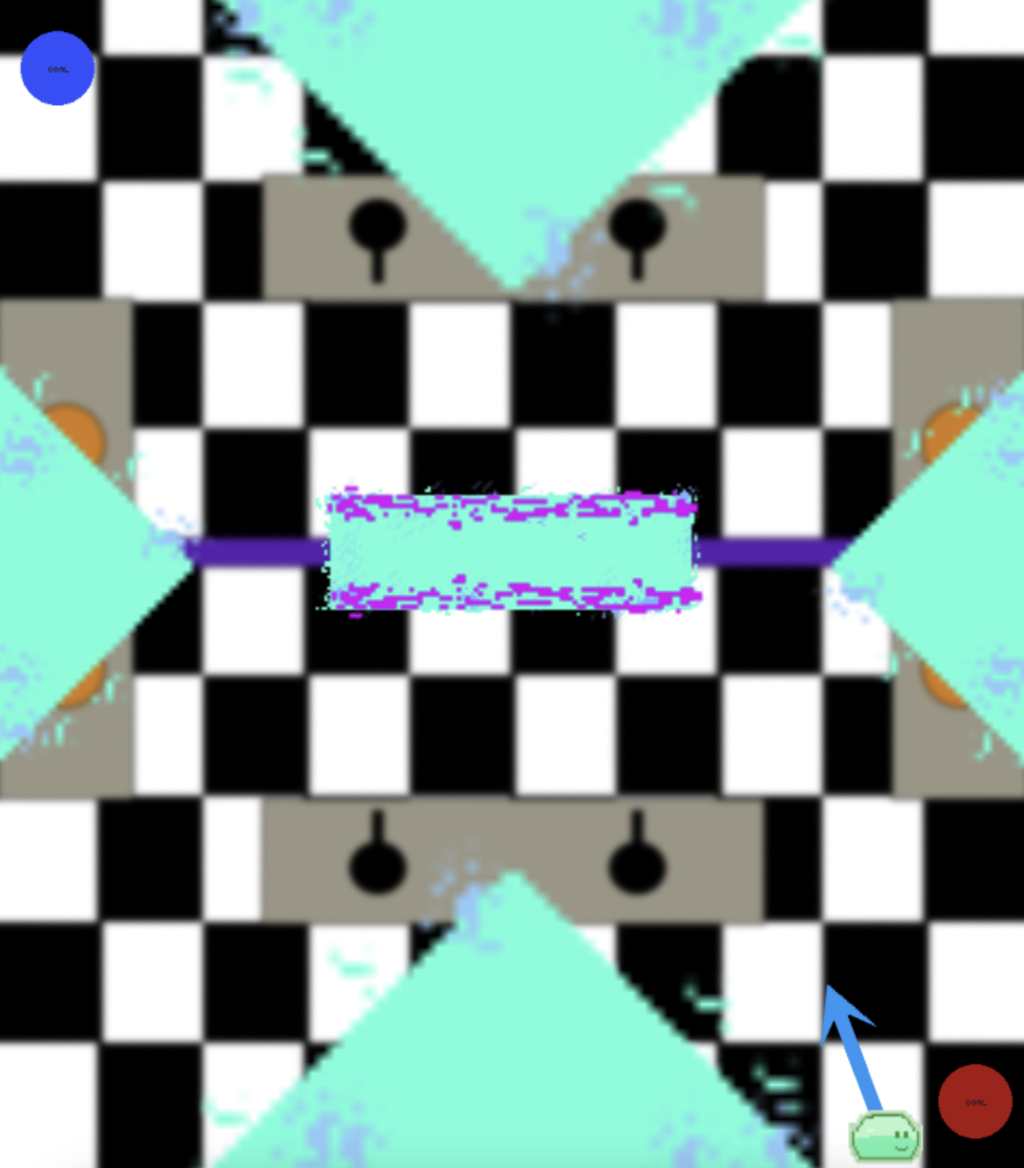
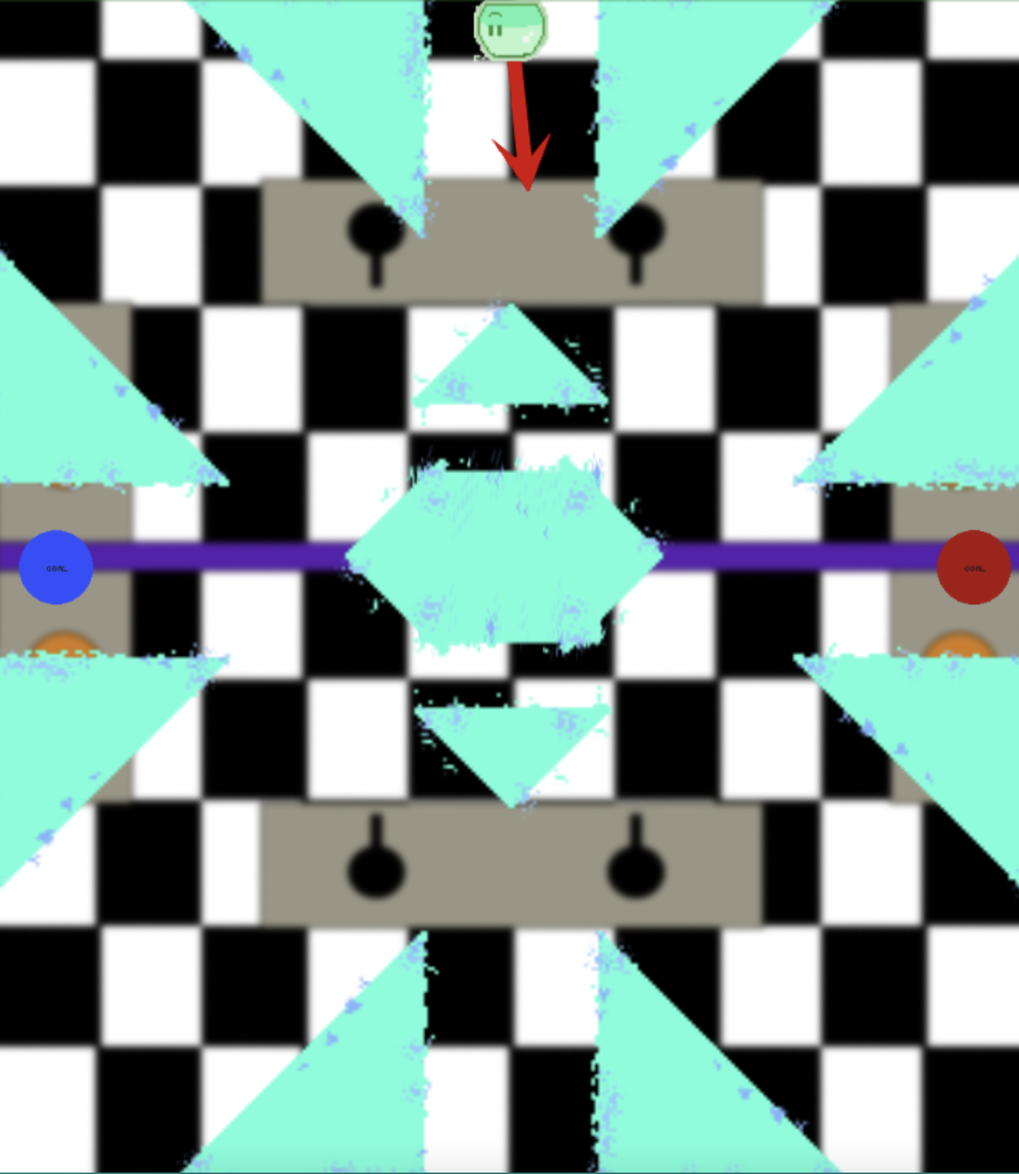
spawn point fixes and level 5 rework

diff --git a/src/scenes/Levels/Level5.js b/src/scenes/Levels/Level5.js
@@ -38,33 +38,37 @@ class Level5 extends Phaser.Scene {
         //movement and scene creation
         this.add.tileSprite(0, 0, 720, 860, 'kitchen').setOrigin(0, 0);
 
-        this.obstacle1 = this.matter.add.sprite(360, 100, 'eqtriangle', null, { isStatic: true, shape: this.shapes.equaltriangle }).setScale(8).setAngle(180);
-        this.obstacle2 = this.matter.add.sprite(360, 800, 'eqtriangle', null, { isStatic: true, shape: this.shapes.equaltriangle }).setScale(8)
-        this.obstacle3 = this.matter.add.sprite(45, 440, 'eqtriangle', null, { isStatic: true, shape: this.shapes.equaltriangle }).setScale(5).setAngle(90);
-        this.obstacle4 = this.matter.add.sprite(675, 440, 'eqtriangle', null, { isStatic: true, shape: this.shapes.equaltriangle }).setScale(5).setAngle(270);
-        this.obstacle5 = this.matter.add.sprite(720/2, 860/2, 'obstacle', null, { isStatic: true, shape: this.shapes.obstacle }).setScale(2).setAngle(90);
+        this.obstacle1 = this.matter.add.sprite(240, 90, 'triangle', null, { isStatic: true, shape: this.shapes.triangle }).setScale(2.5).setAngle(180);
+        this.obstacle2 = this.matter.add.sprite(480, 810, 'triangle', null, { isStatic: true, shape: this.shapes.triangle }).setScale(2.5);
+        this.obstacle3 = this.matter.add.sprite(480, 90, 'triangle', null, { isStatic: true, shape: this.shapes.triangle }).setScale(2.5).setAngle(90);
+        this.obstacle4 = this.matter.add.sprite(240, 810, 'triangle', null, { isStatic: true, shape: this.shapes.triangle }).setScale(2.5).setAngle(270);
+        this.obstacle5 = this.matter.add.sprite(45, 560, 'triangle', null, { isStatic: true, shape: this.shapes.triangle }).setScale(2.5).setAngle(90);
+        this.obstacle6 = this.matter.add.sprite(675, 320, 'triangle', null, { isStatic: true, shape: this.shapes.triangle }).setScale(2.5).setAngle(270);
+        this.obstacle7 = this.matter.add.sprite(45, 320, 'triangle', null, { isStatic: true, shape: this.shapes.triangle }).setScale(2.5);
+        this.obstacle8 = this.matter.add.sprite(675, 560, 'triangle', null, { isStatic: true, shape: this.shapes.triangle }).setScale(2.5).setAngle(180);
+        this.obstacle9 = this.matter.add.sprite(720/2, 860/2, 'obstacle', null, { isStatic: true, shape: this.shapes.obstacle }).setScale(3,1).setAngle(90);
 
-        this.sticky1 = this.matter.add.sprite(360, 395, 'sticky', null, { isStatic: true, shape: this.shapes.horizontal_slime }).setScale(3);
-        this.sticky2 = this.matter.add.sprite(360, 470, 'sticky', null, { isStatic: true, shape: this.shapes.horizontal_slime }).setScale(3).setOrigin(0.5, 0.52);
-        this.sticky1.flipY = true;
-
+        this.obstacle10 = this.matter.add.sprite(290, 430, 'eqtriangle', null, { isStatic: true, shape: this.shapes.equaltriangle }).setScale(2.5).setAngle(270);
+        this.obstacle11 = this.matter.add.sprite(420, 430, 'eqtriangle', null, { isStatic: true, shape: this.shapes.equaltriangle }).setScale(2.5).setAngle(90);
+        this.obstacle12 = this.matter.add.sprite(360, 300, 'eqtriangle', null, { isStatic: true, shape: this.shapes.equaltriangle }).setScale(2.5);
+        this.obstacle13 = this.matter.add.sprite(360, 560, 'eqtriangle', null, { isStatic: true, shape: this.shapes.equaltriangle }).setScale(2.5).setAngle(180);
         
         this.playerturn = 0;
         this.player1score = 0;
         this.player2score = 0;
         // flip a coin to determine starting position
         if (Phaser.Math.Between(1,2) == 1) {
-            this.player = this.matter.add.sprite(100, 10, '', null, { shape: this.shapes.circle }).setAngle(180);
+            this.player = this.matter.add.sprite(360, 40, '', null, { shape: this.shapes.circle }).setAngle(180);
             this.arrow = this.physics.add.sprite(720/2, 430, 'arrowp2').setSize(30, 30).setOrigin(-0.31,0.45);
         } else {
-            this.player = this.matter.add.sprite(620, 870, '', null, { shape: this.shapes.circle });
+            this.player = this.matter.add.sprite(360, 870, '', null, { shape: this.shapes.circle });
             this.arrow = this.physics.add.sprite(720/2, 430, 'arrowp1').setSize(30, 30).setOrigin(-0.31,0.45);
             this.playerturn++;
         }
 
         // create goals
-        this.goal1 = this.matter.add.sprite(40, 95, 'goal1', null, { isStatic: true, shape: this.shapes.tempgoal}).setScale(0.75);
-        this.goal2 = this.matter.add.sprite(680, 815, 'goal2', null, { isStatic: true, shape: this.shapes.tempgoal}).setScale(0.75);
+        this.goal1 = this.matter.add.sprite(40, 440, 'goal1', null, { isStatic: true, shape: this.shapes.tempgoal}).setScale(0.75);
+        this.goal2 = this.matter.add.sprite(680, 440, 'goal2', null, { isStatic: true, shape: this.shapes.tempgoal}).setScale(0.75);
         
         // UI properties
         this.scoreboard = this.matter.add.sprite(350, -80, 'header', null, { isStatic: true, shape: this.shapes.obstacle }).setScale(6).setAngle(90).setDepth(2);
@@ -135,12 +139,12 @@ class Level5 extends Phaser.Scene {
         this.matter.world.on('collisionstart', function (event, bodyA, bodyB) {
             if ((bodyA.gameObject && bodyA.gameObject.texture.key == 'goal1') || (bodyB.gameObject && bodyB.gameObject.texture.key == 'goal1')) {
                 this.player2score++;
-                this.player.setPosition(130, 40);
+                this.player.setPosition(360, 40);
                 this.player.setVelocity(0);
                 this.playerturn = 0;
             } else if ((bodyA.gameObject && bodyA.gameObject.texture.key == 'goal2') || (bodyB.gameObject && bodyB.gameObject.texture.key == 'goal2')) {
                 this.player1score++;
-                this.player.setPosition(590, 870);
+                this.player.setPosition(360, 870);
                 this.player.setVelocity(0);
                 this.playerturn = 1;
             } else if ((bodyA.gameObject && bodyA.gameObject.texture.key == 'sticky') || (bodyB.gameObject && bodyB.gameObject.texture.key == 'sticky')) {

diff --git a/src/scenes/Levels/Level7.js b/src/scenes/Levels/Level7.js
@@ -41,13 +41,13 @@ class Level7 extends Phaser.Scene {
         this.add.tileSprite(0, 0, 720, 860, 'intersection').setOrigin(0, 0);
         
         this.obstacle1 = this.matter.add.sprite(100, 175, 'obstacle', null, { isStatic: true, shape: this.shapes.obstacle }).setScale(2).setAngle(90);
-        this.obstacle1extend = this.matter.add.sprite(520, 175, 'obstacle', null, { isStatic: true, shape: this.shapes.obstacle }).setScale(2).setAngle(90);
+        this.obstacle1extend = this.matter.add.sprite(500, 175, 'obstacle', null, { isStatic: true, shape: this.shapes.obstacle }).setScale(2).setAngle(90);
         this.obstacle2 = this.matter.add.sprite(600, 725, 'obstacle', null, { isStatic: true, shape: this.shapes.obstacle }).setScale(2).setAngle(90);
-        this.obstacle2extend = this.matter.add.sprite(200, 725, 'obstacle', null, { isStatic: true, shape: this.shapes.obstacle }).setScale(2).setAngle(90);
+        this.obstacle2extend = this.matter.add.sprite(220, 725, 'obstacle', null, { isStatic: true, shape: this.shapes.obstacle }).setScale(2).setAngle(90);
         this.obstacle3 = this.matter.add.sprite(100, 545, 'obstacle', null, { isStatic: true, shape: this.shapes.obstacle }).setScale(2).setAngle(90);
-        this.obstacle3extend = this.matter.add.sprite(520, 545, 'obstacle', null, { isStatic: true, shape: this.shapes.obstacle }).setScale(2).setAngle(90);
+        this.obstacle3extend = this.matter.add.sprite(500, 545, 'obstacle', null, { isStatic: true, shape: this.shapes.obstacle }).setScale(2).setAngle(90);
         this.obstacle4 = this.matter.add.sprite(600, 355, 'obstacle', null, { isStatic: true, shape: this.shapes.obstacle }).setScale(2).setAngle(90);
-        this.obstacle4extend = this.matter.add.sprite(200, 355, 'obstacle', null, { isStatic: true, shape: this.shapes.obstacle }).setScale(2).setAngle(90);
+        this.obstacle4extend = this.matter.add.sprite(220, 355, 'obstacle', null, { isStatic: true, shape: this.shapes.obstacle }).setScale(2).setAngle(90);
 
         
         this.playerturn = 0;
@@ -55,10 +55,10 @@ class Level7 extends Phaser.Scene {
         this.player2score = 0;
         // flip a coin to determine starting position
         if (Phaser.Math.Between(1,2) == 1) {
-            this.player = this.matter.add.sprite(670, 40, '', null, { shape: this.shapes.circle }).setAngle(180);
+            this.player = this.matter.add.sprite(300, 40, '', null, { shape: this.shapes.circle }).setAngle(180);
             this.arrow = this.physics.add.sprite(720/2, 430, 'arrowp2').setSize(30, 30).setOrigin(-0.31,0.45);
         } else {
-            this.player = this.matter.add.sprite(50, 870, '', null, { shape: this.shapes.circle });
+            this.player = this.matter.add.sprite(420, 870, '', null, { shape: this.shapes.circle });
             this.arrow = this.physics.add.sprite(720/2, 430, 'arrowp1').setSize(30, 30).setOrigin(-0.31,0.45);
             this.playerturn++;
         }
@@ -136,12 +136,12 @@ class Level7 extends Phaser.Scene {
         this.matter.world.on('collisionstart', function (event, bodyA, bodyB) {
             if ((bodyA.gameObject && bodyA.gameObject.texture.key == 'goal1') || (bodyB.gameObject && bodyB.gameObject.texture.key == 'goal1')) {
                 this.player2score++;
-                this.player.setPosition(130, 40);
+                this.player.setPosition(300, 40);
                 this.player.setVelocity(0);
                 this.playerturn = 0;
             } else if ((bodyA.gameObject && bodyA.gameObject.texture.key == 'goal2') || (bodyB.gameObject && bodyB.gameObject.texture.key == 'goal2')) {
                 this.player1score++;
-                this.player.setPosition(590, 870);
+                this.player.setPosition(420, 870);
                 this.player.setVelocity(0);
                 this.playerturn = 1;
             } else {

diff --git a/src/scenes/Levels/Level15.js b/src/scenes/Levels/Level15.js
@@ -59,7 +59,7 @@ class Level15 extends Phaser.Scene {
         this.player2score = 0;
         // flip a coin to determine starting position
         if (Phaser.Math.Between(1,2) == 1) {
-            this.player = this.matter.add.sprite(360, 10, '', null, { shape: this.shapes.circle }).setAngle(180);
+            this.player = this.matter.add.sprite(360, 40, '', null, { shape: this.shapes.circle }).setAngle(180);
             this.arrow = this.physics.add.sprite(720/2, 430, 'arrowp2').setSize(30, 30).setOrigin(-0.31,0.45);
         } else {
             this.player = this.matter.add.sprite(360, 870, '', null, { shape: this.shapes.circle });
@@ -140,12 +140,12 @@ class Level15 extends Phaser.Scene {
         this.matter.world.on('collisionstart', function (event, bodyA, bodyB) {
             if ((bodyA.gameObject && bodyA.gameObject.texture.key == 'goal1') || (bodyB.gameObject && bodyB.gameObject.texture.key == 'goal1')) {
                 this.player2score++;
-                this.player.setPosition(130, 40);
+                this.player.setPosition(360, 40);
                 this.player.setVelocity(0);
                 this.playerturn = 0;
             } else if ((bodyA.gameObject && bodyA.gameObject.texture.key == 'goal2') || (bodyB.gameObject && bodyB.gameObject.texture.key == 'goal2')) {
                 this.player1score++;
-                this.player.setPosition(590, 870);
+                this.player.setPosition(360, 870);
                 this.player.setVelocity(0);
                 this.playerturn = 1;
             } else if ((bodyA.gameObject && bodyA.gameObject.texture.key == 'sticky') || (bodyB.gameObject && bodyB.gameObject.texture.key == 'sticky')) {
@@ -200,11 +200,6 @@ class Level15 extends Phaser.Scene {
         // set gravity of ball based on side of screen
         if (!this.sticky) {
             this.player.setFriction(1);
-            if (this.player.body.position.y < 430) {
-                this.matter.world.setGravity(0, -this.gravity);
-            } else if (this.player.body.position.y > 430){
-                this.matter.world.setGravity(0, this.gravity);
-            }
         } else {
             this.matter.world.setGravity(0, 0);
             this.player.setVelocity(0);

diff --git a/src/scenes/Levels/Level2.js b/src/scenes/Levels/Level2.js
@@ -49,10 +49,10 @@ class Level2 extends Phaser.Scene {
         this.player2score = 0;
         // flip a coin to determine starting position
         if (Phaser.Math.Between(1,2) == 1) {
-            this.player = this.matter.add.sprite(100, 10, '', null, { shape: this.shapes.circle }).setAngle(180);
+            this.player = this.matter.add.sprite(280, 40, '', null, { shape: this.shapes.circle }).setAngle(180);
             this.arrow = this.physics.add.sprite(720/2, 430, 'arrowp2').setSize(30, 30).setOrigin(-0.31,0.45);
         } else {
-            this.player = this.matter.add.sprite(620, 870, '', null, { shape: this.shapes.circle });
+            this.player = this.matter.add.sprite(440, 870, '', null, { shape: this.shapes.circle });
             this.arrow = this.physics.add.sprite(720/2, 430, 'arrowp1').setSize(30, 30).setOrigin(-0.31,0.45);
             this.playerturn++;
         }
@@ -130,12 +130,12 @@ class Level2 extends Phaser.Scene {
         this.matter.world.on('collisionstart', function (event, bodyA, bodyB) {
             if ((bodyA.gameObject && bodyA.gameObject.texture.key == 'goal1') || (bodyB.gameObject && bodyB.gameObject.texture.key == 'goal1')) {
                 this.player2score++;
-                this.player.setPosition(130, 40);
+                this.player.setPosition(280, 40);
                 this.player.setVelocity(0);
                 this.playerturn = 0;
             } else if ((bodyA.gameObject && bodyA.gameObject.texture.key == 'goal2') || (bodyB.gameObject && bodyB.gameObject.texture.key == 'goal2')) {
                 this.player1score++;
-                this.player.setPosition(590, 870);
+                this.player.setPosition(440, 870);
                 this.player.setVelocity(0);
                 this.playerturn = 1;
             } else {

diff --git a/src/scenes/Levels/Level10.js b/src/scenes/Levels/Level10.js
@@ -63,7 +63,7 @@ class Level10 extends Phaser.Scene {
         this.player2score = 0;
         // flip a coin to determine starting position
         if (Phaser.Math.Between(1,2) == 1) {
-            this.player = this.matter.add.sprite(240, 10, '', null, { shape: this.shapes.circle }).setAngle(180);
+            this.player = this.matter.add.sprite(240, 40, '', null, { shape: this.shapes.circle }).setAngle(180);
             this.arrow = this.physics.add.sprite(720/2, 430, 'arrowp2').setSize(30, 30).setOrigin(-0.31,0.45);
         } else {
             this.player = this.matter.add.sprite(240, 870, '', null, { shape: this.shapes.circle });
@@ -144,12 +144,12 @@ class Level10 extends Phaser.Scene {
         this.matter.world.on('collisionstart', function (event, bodyA, bodyB) {
             if ((bodyA.gameObject && bodyA.gameObject.texture.key == 'goal1') || (bodyB.gameObject && bodyB.gameObject.texture.key == 'goal1')) {
                 this.player2score++;
-                this.player.setPosition(130, 40);
+                this.player.setPosition(240, 40);
                 this.player.setVelocity(0);
                 this.playerturn = 0;
             } else if ((bodyA.gameObject && bodyA.gameObject.texture.key == 'goal2') || (bodyB.gameObject && bodyB.gameObject.texture.key == 'goal2')) {
                 this.player1score++;
-                this.player.setPosition(590, 870);
+                this.player.setPosition(240, 870);
                 this.player.setVelocity(0);
                 this.playerturn = 1;
             } else if ((bodyA.gameObject && bodyA.gameObject.texture.key == 'sticky') || (bodyB.gameObject && bodyB.gameObject.texture.key == 'sticky')) {

diff --git a/src/scenes/Levels/Level11.js b/src/scenes/Levels/Level11.js
@@ -51,7 +51,7 @@ class Level11 extends Phaser.Scene {
         this.player2score = 0;
         // flip a coin to determine starting position
         if (Phaser.Math.Between(1,2) == 1) {
-            this.player = this.matter.add.sprite(180, 10, '', null, { shape: this.shapes.circle }).setAngle(180);
+            this.player = this.matter.add.sprite(180, 40, '', null, { shape: this.shapes.circle }).setAngle(180);
             this.arrow = this.physics.add.sprite(720/2, 430, 'arrowp2').setSize(30, 30).setOrigin(-0.31,0.45);
         } else {
             this.player = this.matter.add.sprite(540, 870, '', null, { shape: this.shapes.circle });
@@ -132,12 +132,12 @@ class Level11 extends Phaser.Scene {
         this.matter.world.on('collisionstart', function (event, bodyA, bodyB) {
             if ((bodyA.gameObject && bodyA.gameObject.texture.key == 'goal1') || (bodyB.gameObject && bodyB.gameObject.texture.key == 'goal1')) {
                 this.player2score++;
-                this.player.setPosition(130, 40);
+                this.player.setPosition(180, 40);
                 this.player.setVelocity(0);
                 this.playerturn = 0;
             } else if ((bodyA.gameObject && bodyA.gameObject.texture.key == 'goal2') || (bodyB.gameObject && bodyB.gameObject.texture.key == 'goal2')) {
                 this.player1score++;
-                this.player.setPosition(590, 870);
+                this.player.setPosition(540, 870);
                 this.player.setVelocity(0);
                 this.playerturn = 1;
             } else if ((bodyA.gameObject && bodyA.gameObject.texture.key == 'sticky') || (bodyB.gameObject && bodyB.gameObject.texture.key == 'sticky')) {

diff --git a/src/scenes/Levels/Level12.js b/src/scenes/Levels/Level12.js
@@ -50,7 +50,7 @@ class Level12 extends Phaser.Scene {
         this.player2score = 0;
         // flip a coin to determine starting position
         if (Phaser.Math.Between(1,2) == 1) {
-            this.player = this.matter.add.sprite(180, 10, '', null, { shape: this.shapes.circle }).setAngle(180);
+            this.player = this.matter.add.sprite(180, 40, '', null, { shape: this.shapes.circle }).setAngle(180);
             this.arrow = this.physics.add.sprite(720/2, 430, 'arrowp2').setSize(30, 30).setOrigin(-0.31,0.45);
         } else {
             this.player = this.matter.add.sprite(540, 870, '', null, { shape: this.shapes.circle });
@@ -131,12 +131,12 @@ class Level12 extends Phaser.Scene {
         this.matter.world.on('collisionstart', function (event, bodyA, bodyB) {
             if ((bodyA.gameObject && bodyA.gameObject.texture.key == 'goal1') || (bodyB.gameObject && bodyB.gameObject.texture.key == 'goal1')) {
                 this.player2score++;
-                this.player.setPosition(130, 40);
+                this.player.setPosition(180, 40);
                 this.player.setVelocity(0);
                 this.playerturn = 0;
             } else if ((bodyA.gameObject && bodyA.gameObject.texture.key == 'goal2') || (bodyB.gameObject && bodyB.gameObject.texture.key == 'goal2')) {
                 this.player1score++;
-                this.player.setPosition(590, 870);
+                this.player.setPosition(540, 870);
                 this.player.setVelocity(0);
                 this.playerturn = 1;
             } else if ((bodyA.gameObject && bodyA.gameObject.texture.key == 'sticky') || (bodyB.gameObject && bodyB.gameObject.texture.key == 'sticky')) {

diff --git a/src/scenes/Levels/Level3.js b/src/scenes/Levels/Level3.js
@@ -56,7 +56,7 @@ class Level3 extends Phaser.Scene {
         this.player2score = 0;
         // flip a coin to determine starting position
         if (Phaser.Math.Between(1,2) == 1) {
-            this.player = this.matter.add.sprite(120, 10, '', null, { shape: this.shapes.circle }).setAngle(180);
+            this.player = this.matter.add.sprite(120, 40, '', null, { shape: this.shapes.circle }).setAngle(180);
             this.arrow = this.physics.add.sprite(720/2, 430, 'arrowp2').setSize(30, 30).setOrigin(-0.31,0.45);
         } else {
             this.player = this.matter.add.sprite(120, 870, '', null, { shape: this.shapes.circle });
@@ -137,12 +137,12 @@ class Level3 extends Phaser.Scene {
         this.matter.world.on('collisionstart', function (event, bodyA, bodyB) {
             if ((bodyA.gameObject && bodyA.gameObject.texture.key == 'goal1') || (bodyB.gameObject && bodyB.gameObject.texture.key == 'goal1')) {
                 this.player2score++;
-                this.player.setPosition(130, 40);
+                this.player.setPosition(120, 40);
                 this.player.setVelocity(0);
                 this.playerturn = 0;
             } else if ((bodyA.gameObject && bodyA.gameObject.texture.key == 'goal2') || (bodyB.gameObject && bodyB.gameObject.texture.key == 'goal2')) {
                 this.player1score++;
-                this.player.setPosition(590, 870);
+                this.player.setPosition(120, 870);
                 this.player.setVelocity(0);
                 this.playerturn = 1;
             } else if ((bodyA.gameObject && bodyA.gameObject.texture.key == 'sticky') || (bodyB.gameObject && bodyB.gameObject.texture.key == 'sticky')) {

diff --git a/src/scenes/Levels/Level8.js b/src/scenes/Levels/Level8.js
@@ -59,7 +59,7 @@ class Level8 extends Phaser.Scene {
         this.player2score = 0;
         // flip a coin to determine starting position
         if (Phaser.Math.Between(1,2) == 1) {
-            this.player = this.matter.add.sprite(580, 10, '', null, { shape: this.shapes.circle }).setAngle(180);
+            this.player = this.matter.add.sprite(580, 40, '', null, { shape: this.shapes.circle }).setAngle(180);
             this.arrow = this.physics.add.sprite(720/2, 430, 'arrowp2').setSize(30, 30).setOrigin(-0.31,0.45);
         } else {
             this.player = this.matter.add.sprite(140, 870, '', null, { shape: this.shapes.circle });
@@ -140,12 +140,12 @@ class Level8 extends Phaser.Scene {
         this.matter.world.on('collisionstart', function (event, bodyA, bodyB) {
             if ((bodyA.gameObject && bodyA.gameObject.texture.key == 'goal1') || (bodyB.gameObject && bodyB.gameObject.texture.key == 'goal1')) {
                 this.player2score++;
-                this.player.setPosition(130, 40);
+                this.player.setPosition(580, 40);
                 this.player.setVelocity(0);
                 this.playerturn = 0;
             } else if ((bodyA.gameObject && bodyA.gameObject.texture.key == 'goal2') || (bodyB.gameObject && bodyB.gameObject.texture.key == 'goal2')) {
                 this.player1score++;
-                this.player.setPosition(590, 870);
+                this.player.setPosition(140, 870);
                 this.player.setVelocity(0);
                 this.playerturn = 1;
             } else if ((bodyA.gameObject && bodyA.gameObject.texture.key == 'sticky') || (bodyB.gameObject && bodyB.gameObject.texture.key == 'sticky')) {

diff --git a/src/scenes/Levels/Level9.js b/src/scenes/Levels/Level9.js
@@ -60,7 +60,7 @@ class Level9 extends Phaser.Scene {
         this.player2score = 0;
         // flip a coin to determine starting position
         if (Phaser.Math.Between(1,2) == 1) {
-            this.player = this.matter.add.sprite(60, 850, '', null, { shape: this.shapes.circle });
+            this.player = this.matter.add.sprite(60, 870, '', null, { shape: this.shapes.circle });
             this.arrow = this.physics.add.sprite(720/2, 850, 'arrowp2').setSize(30, 30).setOrigin(-0.31,0.45);
         } else {
             this.player = this.matter.add.sprite(660, 870, '', null, { shape: this.shapes.circle });
@@ -141,12 +141,12 @@ class Level9 extends Phaser.Scene {
         this.matter.world.on('collisionstart', function (event, bodyA, bodyB) {
             if ((bodyA.gameObject && bodyA.gameObject.texture.key == 'goal1') || (bodyB.gameObject && bodyB.gameObject.texture.key == 'goal1')) {
                 this.player2score++;
-                this.player.setPosition(130, 40);
+                this.player.setPosition(60, 870);
                 this.player.setVelocity(0);
                 this.playerturn = 0;
             } else if ((bodyA.gameObject && bodyA.gameObject.texture.key == 'goal2') || (bodyB.gameObject && bodyB.gameObject.texture.key == 'goal2')) {
                 this.player1score++;
-                this.player.setPosition(590, 870);
+                this.player.setPosition(660, 870);
                 this.player.setVelocity(0);
                 this.playerturn = 1;
             } else if ((bodyA.gameObject && bodyA.gameObject.texture.key == 'sticky') || (bodyB.gameObject && bodyB.gameObject.texture.key == 'sticky')) {

diff --git a/src/scenes/Levels/Level14.js b/src/scenes/Levels/Level14.js
@@ -63,7 +63,7 @@ class Level14 extends Phaser.Scene {
         }
 
         // create goals
-        this.goal1 = this.matter.add.sprite(80, 70, 'goal1', null, { isStatic: true, shape: this.shapes.tempgoal}).setScale(0.75);
+        this.goal1 = this.matter.add.sprite(80, 40, 'goal1', null, { isStatic: true, shape: this.shapes.tempgoal}).setScale(0.75);
         this.goal2 = this.matter.add.sprite(640, 835, 'goal2', null, { isStatic: true, shape: this.shapes.tempgoal}).setScale(0.75);
         
         // UI properties
@@ -135,12 +135,12 @@ class Level14 extends Phaser.Scene {
         this.matter.world.on('collisionstart', function (event, bodyA, bodyB) {
             if ((bodyA.gameObject && bodyA.gameObject.texture.key == 'goal1') || (bodyB.gameObject && bodyB.gameObject.texture.key == 'goal1')) {
                 this.player2score++;
-                this.player.setPosition(130, 40);
+                this.player.setPosition(360, 40);
                 this.player.setVelocity(0);
                 this.playerturn = 0;
             } else if ((bodyA.gameObject && bodyA.gameObject.texture.key == 'goal2') || (bodyB.gameObject && bodyB.gameObject.texture.key == 'goal2')) {
                 this.player1score++;
-                this.player.setPosition(590, 870);
+                this.player.setPosition(360, 870);
                 this.player.setVelocity(0);
                 this.playerturn = 1;
             } else if ((bodyA.gameObject && bodyA.gameObject.texture.key == 'sticky') || (bodyB.gameObject && bodyB.gameObject.texture.key == 'sticky')) {

diff --git a/src/scenes/Levels/Level1.js b/src/scenes/Levels/Level1.js
@@ -47,7 +47,7 @@ class Level1 extends Phaser.Scene {
         this.player2score = 0;
         // flip a coin to determine starting position
         if (Phaser.Math.Between(1,2) == 1) {
-            this.player = this.matter.add.sprite(100, 10, '', null, { shape: this.shapes.circle }).setAngle(180);
+            this.player = this.matter.add.sprite(100, 40, '', null, { shape: this.shapes.circle }).setAngle(180);
             this.arrow = this.physics.add.sprite(720/2, 430, 'arrowp2').setSize(30, 30).setOrigin(-0.31,0.45);
         } else {
             this.player = this.matter.add.sprite(620, 870, '', null, { shape: this.shapes.circle });
@@ -128,12 +128,12 @@ class Level1 extends Phaser.Scene {
         this.matter.world.on('collisionstart', function (event, bodyA, bodyB) {
             if ((bodyA.gameObject && bodyA.gameObject.texture.key == 'goal1') || (bodyB.gameObject && bodyB.gameObject.texture.key == 'goal1')) {
                 this.player2score++;
-                this.player.setPosition(130, 40);
+                this.player.setPosition(100, 40);
                 this.player.setVelocity(0);
                 this.playerturn = 0;
             } else if ((bodyA.gameObject && bodyA.gameObject.texture.key == 'goal2') || (bodyB.gameObject && bodyB.gameObject.texture.key == 'goal2')) {
                 this.player1score++;
-                this.player.setPosition(590, 870);
+                this.player.setPosition(620, 870);
                 this.player.setVelocity(0);
                 this.playerturn = 1;
             } else {
